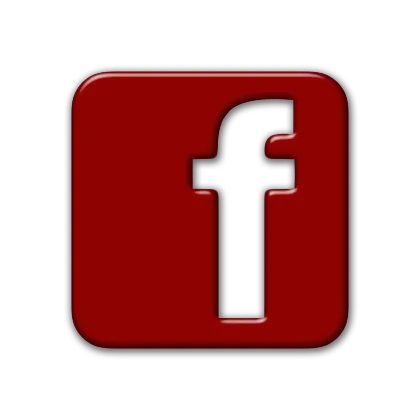
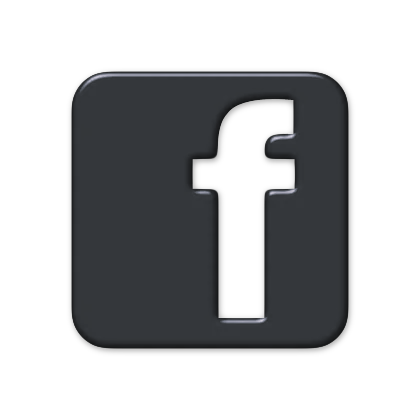
Major changes to color scheme

diff --git a/style.css b/style.css
@@ -20,17 +20,17 @@ img {
     margin: 8px;
     box-shadow: 2px 2px 6px 6px rgba(0, 0, 0, 0.2);
     border-radius: 15px;
-    border-top: ridge 3px #EED7C5;
-    border-left: ridge 3px #C89F9C;
-    border-bottom: ridge 3px #C97C5D;
-    border-right: ridge 3px #B36A5E;
+    border-top: ridge 3px #efe3d9;
+    border-left: ridge 3px #171717;
+    border-bottom: ridge 3px #646261;
+    border-right: ridge 3px #ae8212;
 }
 
 .upButton {
     width:50px;
     height: 50px;
     border-radius: 50%;
-    border:solid 1px #C89F9C;
+    border:solid 1px #171717;
     box-shadow: 2px 2px 6px 6px rgba(0, 0, 0, 0.2);
     position:fixed;
     top:2%;
@@ -39,7 +39,7 @@ img {
 }
 
 .upButton:hover {
-    background-color: #EED7C5;
+    background-color: #ae8212;
     opacity: .7;
 }
 
@@ -51,7 +51,7 @@ img {
 
 .fbLogo:hover {
     background-color: #EED7C5;
-    outline:#B36A5E solid 3px;
+    outline:#646261 solid 3px;
 }
 
 
@@ -82,10 +82,10 @@ p {
 
 .borderColors {
     box-shadow: 1px 6px 10px 0px #b2b2b2;
-    border-top: ridge 1px #EED7C5;
-    border-left: ridge 1px #C89F9C;
-    border-bottom: ridge 1px #C97C5D;
-    border-right: ridge 1px #B36A5E;
+    border-top: ridge 2px #efe3d9;
+    border-left: ridge 2px #171717;
+    border-bottom: ridge 2px #646261;
+    border-right: ridge 2px #ae8212;
 }
 
 .header {
@@ -105,7 +105,7 @@ p {
 .brand {
     width:500px;
     height: 36px;
-    border-bottom: solid 2px #B36A5E;
+    border-bottom: solid 2px #ae8212;
     margin-bottom: 12px;
 }
 
@@ -119,7 +119,7 @@ p {
     font-family: 'Playfair Display', serif;
     font-size: 18px;
     font-style: italic;
-    color: #B36A5E;
+    color: #ae8212;
 }
 
 @media only screen and (max-width: 640px) {
@@ -158,7 +158,7 @@ p {
     }
 
 .navItem:hover {
-    background-color: #B36A5E;
+    background-color: #ae8212;
     color: white;
     border-radius: 10px;
 }
@@ -184,8 +184,8 @@ p {
     text-align: center;
     width:100%;
     font-size: 26px;
-    background-color: #EED7C5;
-    color: #B36A5E;
+    background-color: #ae8212;
+    color: #efe3d9;
     border-top-left-radius: 15px;
     border-top-right-radius: 15px;
 }
@@ -209,7 +209,7 @@ p {
 .dogText {
     font-size: 38px;
     text-decoration: underline;
-    color: #B36A5E;
+    color: #ae8212;
     font-family: Accordance;
     margin: 5px;
 }
@@ -306,19 +306,19 @@ img {vertical-align: middle;}
 
 #FAQ {
     border-radius: 15px;
-    border: solid 2px #B36A5E;
+    border: solid 2px #ae8212;
 }
 
 .question {
     font-size: 20px;
     text-decoration: underline;
-    color: #B36A5E;
+    color: #ae8212;
     text-align: left;
 }
 
 
 input, textarea {
-    border: solid 2px #B36A5E;
+    border: solid 2px #ae8212;
     border-radius: 5px;
     margin: 5px;
     padding: 5px;
@@ -326,7 +326,7 @@ input, textarea {
 }
 
 .review {
-    color: #C97C5D;
+    color: #646261;
     font-style: italic;
     font-weight: 400;
     text-align: center;

diff --git a/index.html b/index.html
@@ -506,7 +506,7 @@
 
     <!-- The "Contact" section of the website. No mail services are currently available, so at push, this container will be set to invisible so its contents can't be used, -->
     <div id="Contact" class="sectionContainer borderColors">
-        <h1 style="text-align:center; margin:5px; font-size: 20px; color: #B36A5E">Send us a message* and let's talk!</h1>
+        <h1 style="text-align:center; margin:5px; font-size: 20px; color: #ae8212">Send us a message* and let's talk!</h1>
         <h1 style="text-align:center; margin:5px; font-size: 18px">goshengoldenaussies@gmail.com</h1>
         <br>
         <p>*Please read through our Q&A for answers to some very common questions before sending us an email.</p>
